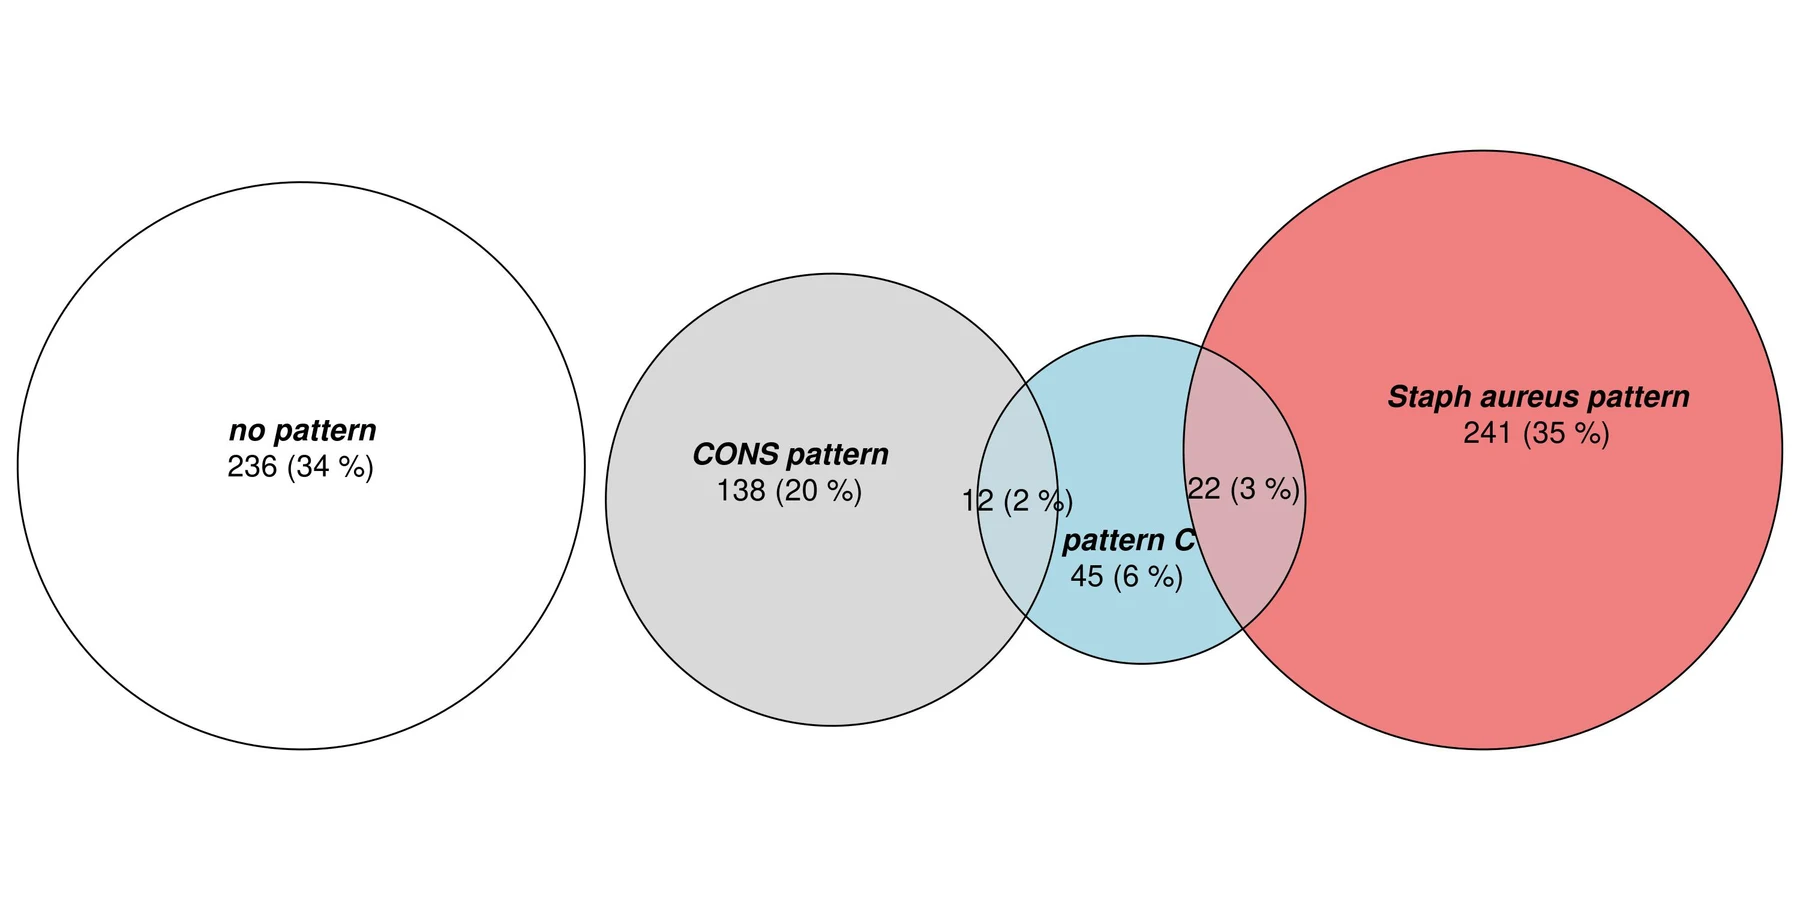
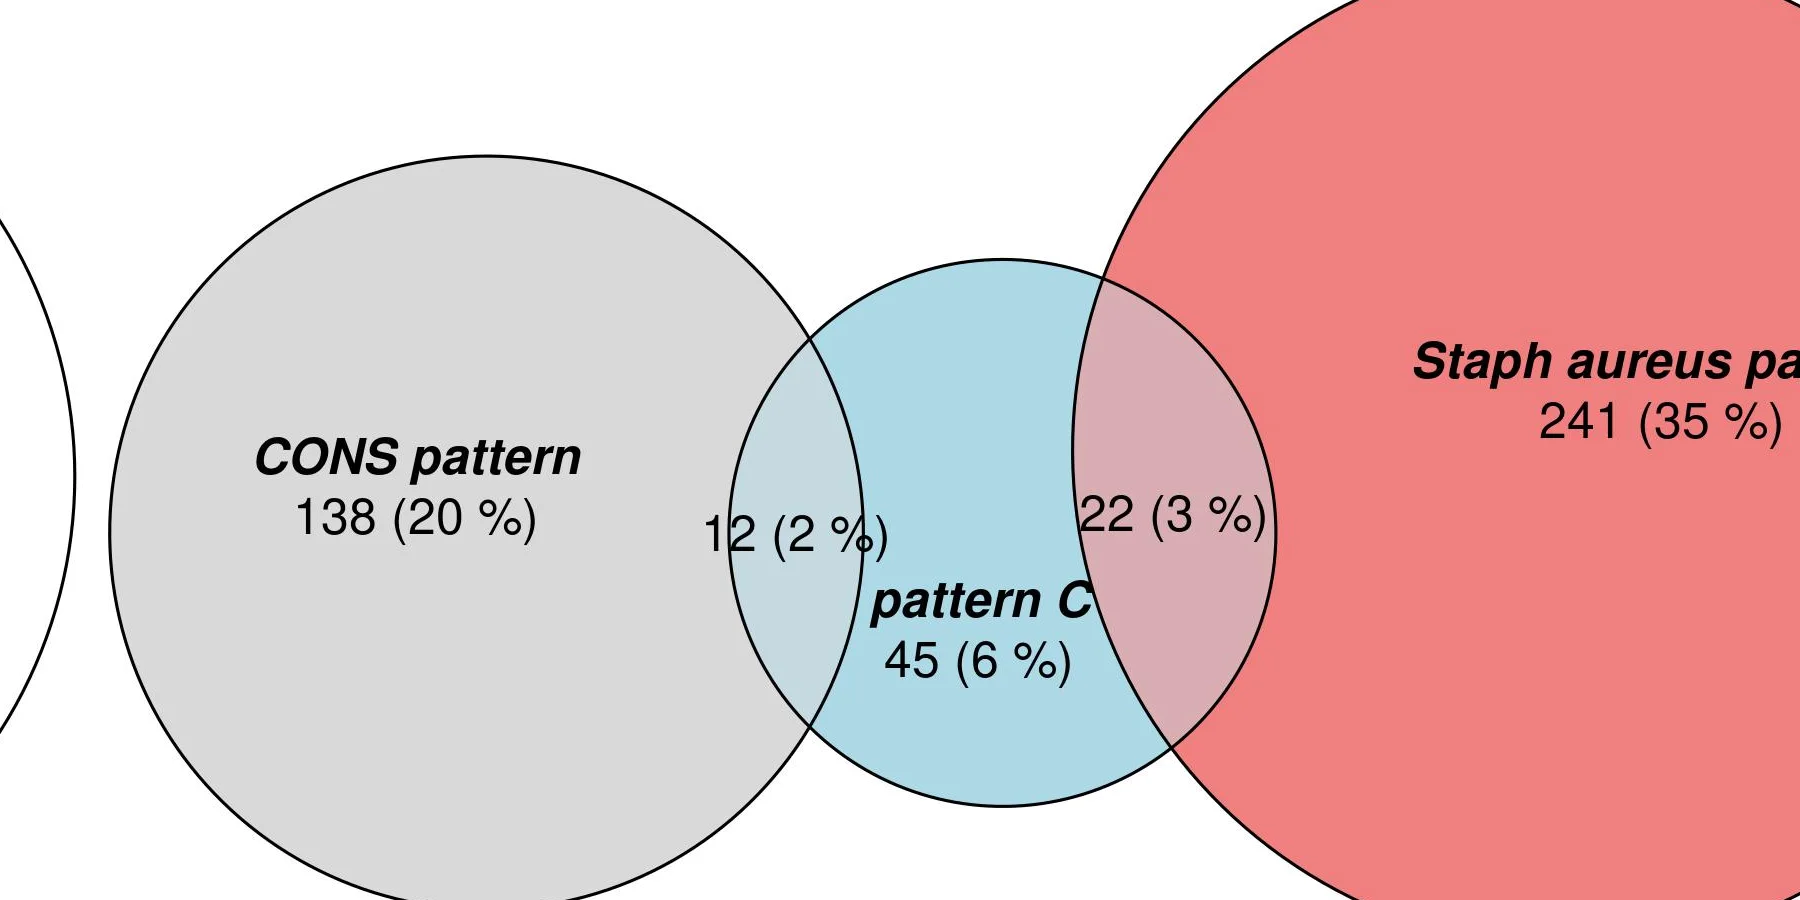
Refine Selected Works presentation

diff --git a/_sass/_works.scss b/_sass/_works.scss
@@ -43,8 +43,11 @@
 
 .works-card__link {
   display: block;
+  border: 1px solid var(--works-line);
+  background: #fff;
   color: inherit;
   text-decoration: none;
+  transition: border-color 180ms ease;
 }
 
 .works-card__figure {
@@ -81,19 +84,19 @@
   transition: transform 360ms cubic-bezier(0.2, 0.65, 0.3, 1);
 }
 
-.works-card__image--contain {
-  object-fit: contain;
-}
-
 .works-card__caption {
+  display: grid;
+  gap: 0.52rem;
   box-sizing: border-box;
   width: 100%;
   margin: 0;
-  padding: 0.68rem 0 0;
+  padding: 0.8rem 0.9rem 0.9rem;
 }
 
-.works-card__title {
+.works-index .works-card__title {
   margin: 0;
+  padding: 0;
+  border: 0;
   color: var(--works-text);
   font-size: unquote("clamp(0.98rem, 1.25vw, 1.1rem)");
   font-weight: 600;
@@ -101,7 +104,7 @@
 }
 
 .works-card__published-title {
-  margin: 0.2rem 0 0;
+  margin: 0;
   color: var(--works-muted);
   font-size: unquote("clamp(0.76rem, 0.9vw, 0.86rem)");
   font-weight: 400;
@@ -109,13 +112,14 @@
 }
 
 .works-card__meta {
-  margin: 0.48rem 0 0;
-  color: var(--works-muted);
-  font-size: 0.68rem;
-  font-weight: 600;
-  letter-spacing: 0.08em;
+  margin: 0;
+  color: #9a9b96;
+  font-family: $font-mono;
+  font-size: 0.64rem;
+  font-weight: 400;
+  letter-spacing: 0.025em;
   line-height: 1.3;
-  text-transform: uppercase;
+  text-transform: none;
 }
 
 .works-card__meta span {
@@ -125,6 +129,11 @@
 .works-card__link:hover .works-card__image,
 .works-card__link:focus-visible .works-card__image {
   transform: scale(1.04);
+}
+
+.works-card__link:hover,
+.works-card__link:focus-visible {
+  border-color: #b9b8b1;
 }
 
 .works-card__link:focus-visible {

diff --git a/works/index.md b/works/index.md
@@ -1,6 +1,6 @@
 ---
 layout: single
-title: "Works"
+title: "Selected Works"
 permalink: /works/
 description: "Selected projects in amputation prevention, limb preservation, clinical education, and health systems improvement."
 author_profile: false
@@ -9,7 +9,7 @@ classes: wide
 
 <div class="works-index">
   <div class="works-index__intro">
-    <p>Selected work in limb preservation, clinical systems, research, and education.</p>
+    <p>Works selected from more than 150 original, peer-reviewed articles and 25 book chapters.</p>
   </div>
 
   <div class="works-grid">
@@ -30,7 +30,7 @@ classes: wide
           <figcaption class="works-card__caption">
             <h2 class="works-card__title">Non-random polymicrobial cooccurrence patterns</h2>
             <p class="works-card__published-title">Polymicrobial foot infection patterns are common and associated with treatment failure</p>
-            <p class="works-card__meta">Original research <span aria-hidden="true">&middot;</span> 2022</p>
+            <p class="works-card__meta">original research <span aria-hidden="true">&middot;</span> 2022</p>
           </figcaption>
         </figure>
       </a>
@@ -41,7 +41,7 @@ classes: wide
         <figure class="works-card__figure">
           <div class="works-card__image-frame">
             <img
-              class="works-card__image works-card__image--contain"
+              class="works-card__image"
               src="{{ '/assets/images/works/choi-diagnostic/noninvasive-pad-testing-thumbnail.webp' | relative_url }}"
               alt="Ranked green bars showing the sensitivity of clinical and noninvasive parameters for detecting advanced lower-extremity arterial disease"
               width="1200"
@@ -53,7 +53,7 @@ classes: wide
           <figcaption class="works-card__caption">
             <h2 class="works-card__title">Diagnostic accuracy of non-invasive PAD testing</h2>
             <p class="works-card__published-title">Lower-extremity pressure, staging, and grading thresholds to identify chronic limb-threatening ischemia</p>
-            <p class="works-card__meta">Original research <span aria-hidden="true">&middot;</span> 2023</p>
+            <p class="works-card__meta">original research <span aria-hidden="true">&middot;</span> 2023</p>
           </figcaption>
         </figure>
       </a>

diff --git a/works/polymicrobial-foot-infection-patterns.md b/works/polymicrobial-foot-infection-patterns.md
@@ -25,8 +25,8 @@ classes: wide
     </figcaption>
   </figure>
 
-  <div class="work-detail__metadata" aria-labelledby="work-details-heading">
-    <h2 id="work-details-heading">Work details</h2>
+  <div class="work-detail__metadata" aria-labelledby="publication-details-heading">
+    <h2 id="publication-details-heading">Publication details</h2>
     <div class="work-detail__table-wrap">
       <table class="work-detail__table">
         <tbody>
@@ -40,7 +40,7 @@ classes: wide
           </tr>
           <tr>
             <th scope="row">Authors</th>
-            <td>Neal R. Barshes, MD, MPH; Nicholas J. Clark, PhD; Deeksha Bidare, BS; J. H. Dudenhoeffer, PhD; Cezarina Mindru, MD; and Maria C. Rodriguez-Barradas, MD, PhD</td>
+            <td>Neal R. Barshes; Nicholas J. Clark; Deeksha Bidare; J. H. Dudenhoeffer; Cezarina Mindru; and Maria C. Rodriguez-Barradas</td>
           </tr>
           <tr>
             <th scope="row">Publication</th>
@@ -51,11 +51,12 @@ classes: wide
             <td>October 2022</td>
           </tr>
           <tr>
-            <th scope="row">DOI and records</th>
-            <td class="work-detail__links">
-              <a href="https://doi.org/10.1093/ofid/ofac475" target="_blank" rel="noopener noreferrer">10.1093/ofid/ofac475</a>
-              <a href="https://pubmed.ncbi.nlm.nih.gov/36267251/" target="_blank" rel="noopener noreferrer">PubMed 36267251</a>
-            </td>
+            <th scope="row">DOI</th>
+            <td><a href="https://doi.org/10.1093/ofid/ofac475" target="_blank" rel="noopener noreferrer">10.1093/ofid/ofac475</a></td>
+          </tr>
+          <tr>
+            <th scope="row">PubMed identification (PMID) number</th>
+            <td><a href="https://pubmed.ncbi.nlm.nih.gov/36267251/" target="_blank" rel="noopener noreferrer">362-67-251</a></td>
           </tr>
           <tr>
             <th scope="row">Intended audience</th>

diff --git a/works/diagnostic-accuracy-noninvasive-pad-testing.md b/works/diagnostic-accuracy-noninvasive-pad-testing.md
@@ -25,8 +25,8 @@ classes: wide
     </figcaption>
   </figure>
 
-  <div class="work-detail__metadata" aria-labelledby="work-details-heading">
-    <h2 id="work-details-heading">Work details</h2>
+  <div class="work-detail__metadata" aria-labelledby="publication-details-heading">
+    <h2 id="publication-details-heading">Publication details</h2>
     <div class="work-detail__table-wrap">
       <table class="work-detail__table">
         <tbody>
@@ -51,11 +51,12 @@ classes: wide
             <td>February 2023</td>
           </tr>
           <tr>
-            <th scope="row">DOI and records</th>
-            <td class="work-detail__links">
-              <a href="https://doi.org/10.1177/1358863X221147945" target="_blank" rel="noopener noreferrer">10.1177/1358863X221147945</a>
-              <a href="https://pubmed.ncbi.nlm.nih.gov/36759932/" target="_blank" rel="noopener noreferrer">PubMed 36759932</a>
-            </td>
+            <th scope="row">DOI</th>
+            <td><a href="https://doi.org/10.1177/1358863X221147945" target="_blank" rel="noopener noreferrer">10.1177/1358863X221147945</a></td>
+          </tr>
+          <tr>
+            <th scope="row">PubMed identification (PMID) number</th>
+            <td><a href="https://pubmed.ncbi.nlm.nih.gov/36759932/" target="_blank" rel="noopener noreferrer">367-59-932</a></td>
           </tr>
           <tr>
             <th scope="row">Intended audience</th>
